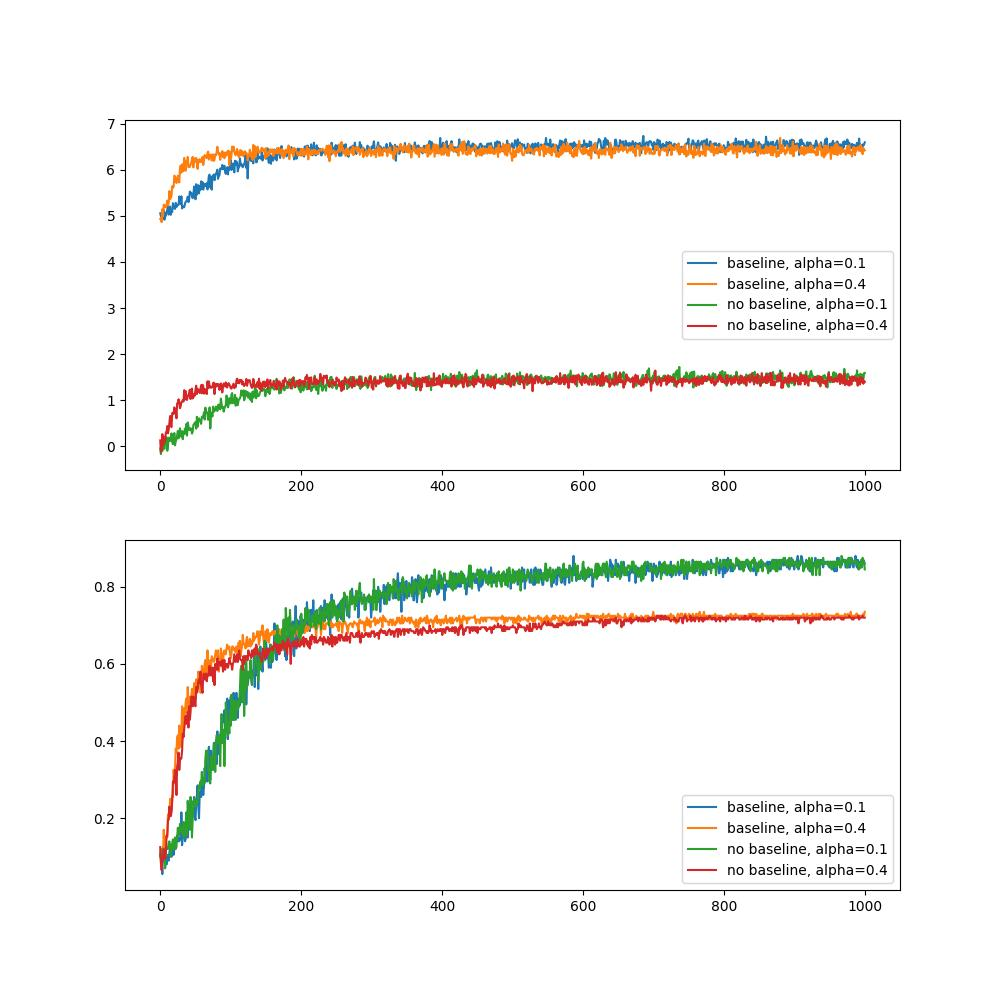
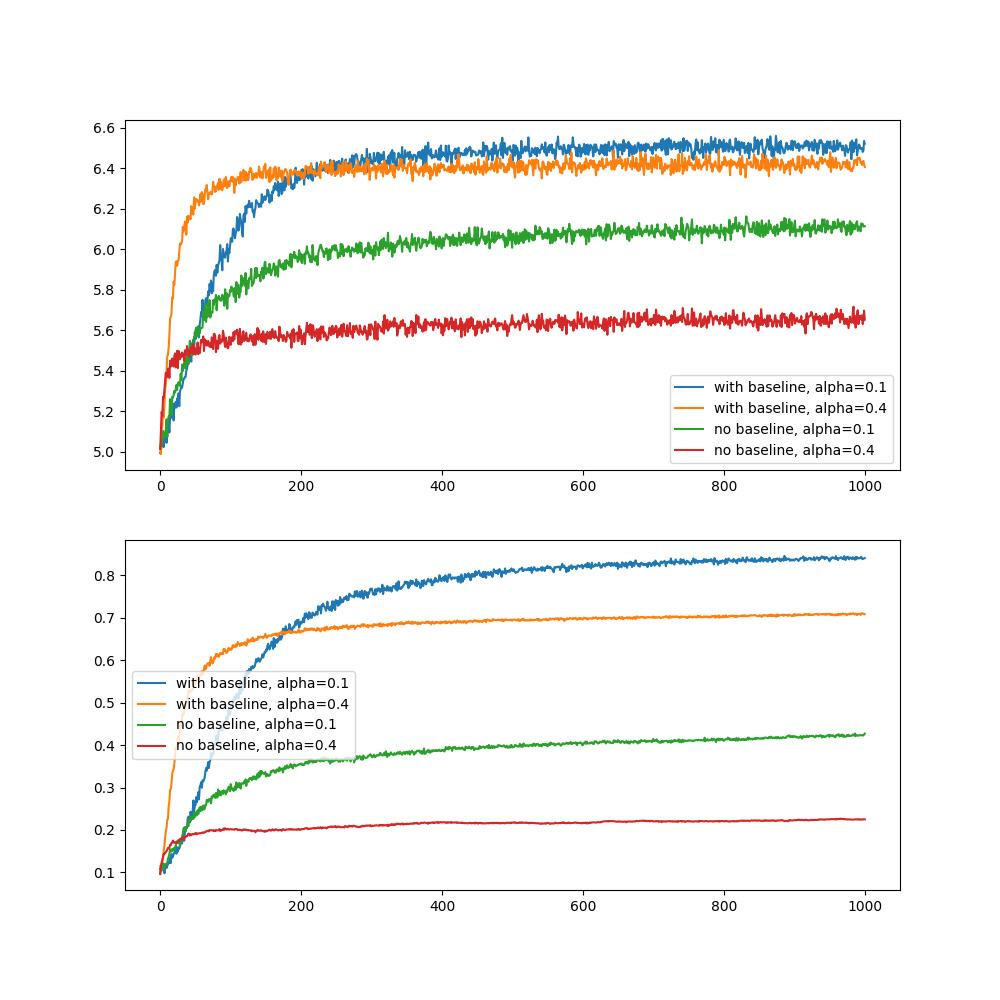
...

diff --git a/champ study/chapter02/fig_2_5_gradient.py b/champ study/chapter02/fig_2_5_gradient.py
@@ -22,8 +22,7 @@ class Bandit:
         return self.rewards[arm][timestep]
 
 
-def simulate(n_bandits=200, n_timesteps=1000, n_arms=10, alpha=0.1, base="no baseline"):
-    q_base = 0 if base == "no baseline" else 5
+def simulate(n_bandits=2000, n_timesteps=1000, n_arms=10, alpha=0.1, base="with baseline", q_base=5):
     reward_grid = np.zeros((n_bandits, n_timesteps))
     optimality_grid = np.zeros((n_bandits, n_timesteps))
     for b in tqdm(range(n_bandits)):
@@ -32,14 +31,14 @@ def simulate(n_bandits=200, n_timesteps=1000, n_arms=10, alpha=0.1, base="no bas
         H = np.zeros(n_arms)
         reward_mean = 0
         for t in range(n_timesteps):
-            H_exp = np.exp(H)
-            Pi = H_exp / np.sum(H_exp)
+            Pi = np.exp(H) / np.sum(np.exp(H))
             action = np.random.choice(bandit.arms, p=Pi)
             reward = bandit.reward(action, t)
             reward_mean += (reward - reward_mean) / (t + 1)
             mask = np.zeros(bandit.n_arms)
             mask[action] = 1
-            H += alpha * (reward - reward_mean) * (mask - Pi)
+            baseline = q_base if base == "with baseline" else 0
+            H += alpha * (reward - baseline) * (mask - Pi)
             reward_grid[b][t] = reward
             optimality_grid[b][t] = int(action == optimal_action)
     return reward_grid, optimality_grid
@@ -47,15 +46,13 @@ def simulate(n_bandits=200, n_timesteps=1000, n_arms=10, alpha=0.1, base="no bas
 
 def fig_2_3():
     fig, ax = plt.subplots(2, 1, figsize=(10, 10))
-    alpha = [0.1, 0.4]
-    base = ["baseline", "no baseline"]
-    for b in base:
-        for a in alpha:
-            rewards, optimality = simulate(alpha=a, base=b)
+    for base in ["with baseline", "no baseline"]:
+        for alpha in [0.1, 0.4]:
+            rewards, optimality = simulate(alpha=alpha, base=base)
             rewards_mean = np.mean(rewards, axis=0)
             optimal_selection = np.mean(optimality, axis=0)
-            ax[0].plot(rewards_mean, label=f'{b}, alpha={a}')
-            ax[1].plot(optimal_selection, label=f'{b}, alpha={a}')
+            ax[0].plot(rewards_mean, label=f'{base}, alpha={alpha}')
+            ax[1].plot(optimal_selection, label=f'{base}, alpha={alpha}')
     ax[0].legend()
     ax[1].legend()
     plt.savefig('images/fig_2_5.jpg')
